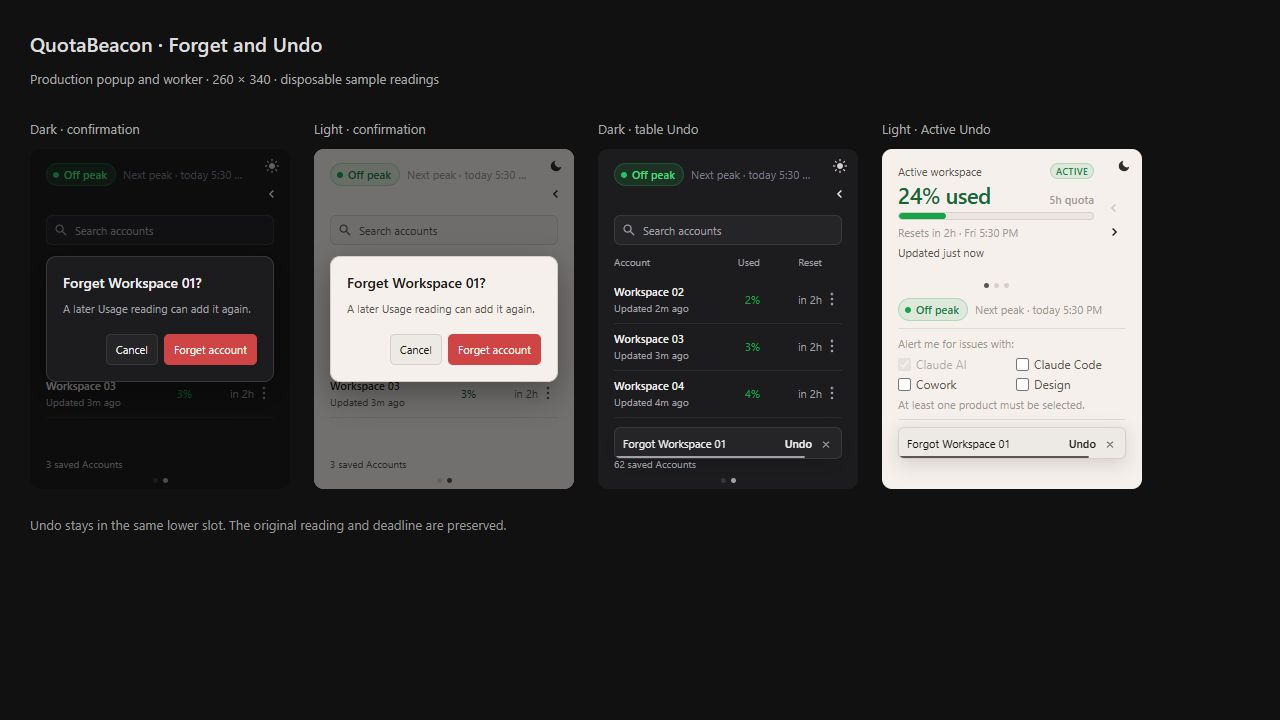
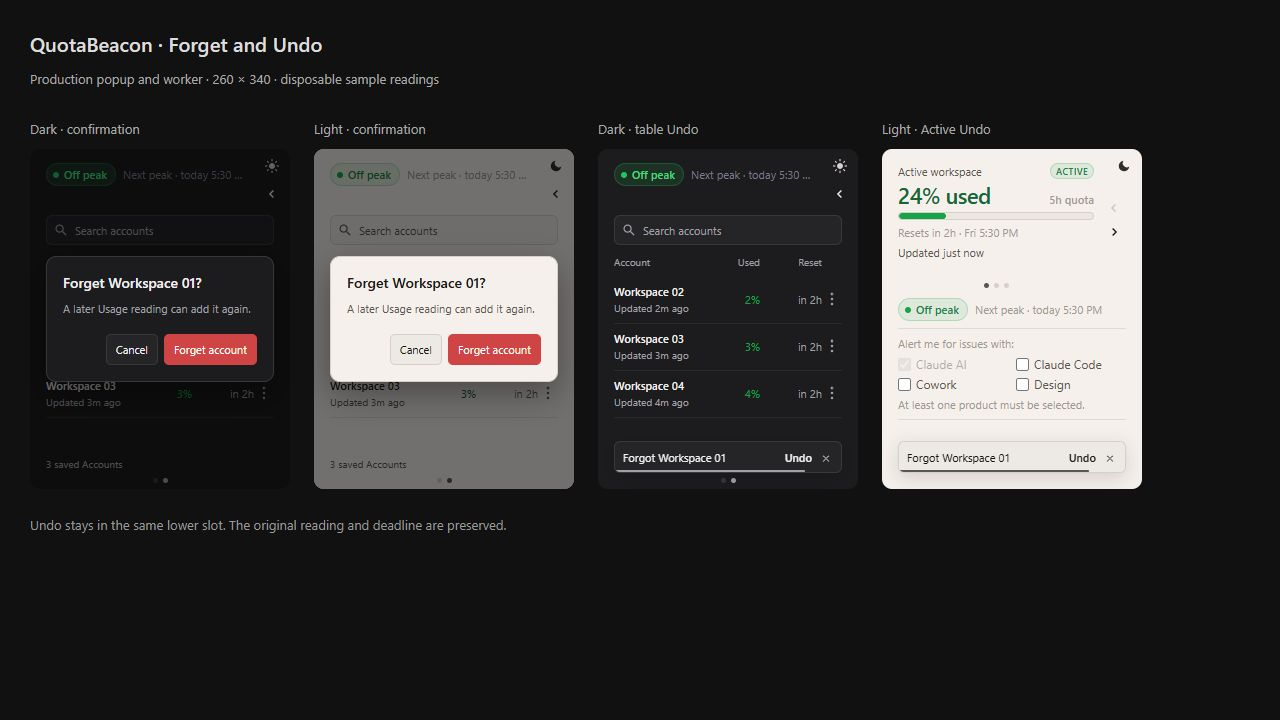
Lower Undo bar with a comfortable bottom inset

Changed region(s): [[0.4688, 0.6111, 0.6562, 0.6722], [0.6875, 0.6111, 0.875, 0.6722]]

diff --git a/.scratch/account-overview/04-validation/checks.js b/.scratch/account-overview/04-validation/checks.js
@@ -109,7 +109,7 @@ document.getElementById('run').onclick = async () => {
         if (count === 64) check(!doc.querySelector('.account-refresh-notice').textContent.includes('New reading received'), 'Forget does not announce a fictional new reading');
         check(JSON.stringify(win.ticket01.state.local.accounts['account-0']) === originalActive && win.ticket01.toolbar.length === icons,
           'Forget preserves Active raw reading and toolbar');
-        check(toastBox(win) === '16,278,228,32', 'Undo occupies the fixed 228 × 32 lower slot');
+        check(toastBox(win) === '16,292,228,32', 'Undo occupies the fixed 228 × 32 lower slot');
         const deadline = win.ticket01.state.local.accountUndo.expiresAt;
         check(deadline === win.Date.now() + 2500, 'offer deadline is exactly 2500ms');
         const dots = doc.getElementById('account-dots');
@@ -118,14 +118,17 @@ document.getElementById('run').onclick = async () => {
         check(doc.querySelector('.footer').inert && doc.querySelector('.tz-picker').inert, 'controls covered by Undo cannot receive focus');
         check(win.getComputedStyle(doc.querySelector('.footer')).visibility === 'hidden'
           && win.getComputedStyle(doc.querySelector('.tz-picker')).visibility === 'hidden', 'Undo replaces the entire timezone/reset footer without controls peeking through');
+        if (count === 64) check(win.getComputedStyle(doc.querySelector('.account-table-foot')).visibility === 'hidden'
+          && win.getComputedStyle(doc.querySelector('.account-refresh-notice')).visibility === 'hidden', 'lower Undo bar fully replaces the table count and notice');
         click(win, '#theme-toggle');
         await pause();
-        check(win.ticket01.state.local.accountUndo.expiresAt === deadline && toastBox(win) === '16,278,228,32', 'theme preserves deadline and notification position');
+        check(win.ticket01.state.local.accountUndo.expiresAt === deadline && toastBox(win) === '16,292,228,32', 'theme preserves deadline and notification position');
         await undo(win);
         check(JSON.stringify(win.ticket01.state.local.accounts[id]) === original, 'Undo restores exact raw identity, label, percentage, reset, timestamp and tie order');
         check(doc.querySelector('.account-undo').hidden && !doc.querySelector('.footer').inert, 'Undo removes recovery and releases covered controls');
         check(win.getComputedStyle(doc.querySelector('.footer')).visibility === 'visible'
           && win.getComputedStyle(doc.querySelector('.tz-picker')).visibility === 'visible', 'Undo restores both footer sections after recovery');
+        if (count === 64) check(win.getComputedStyle(doc.querySelector('.account-table-foot')).visibility === 'visible', 'table footer returns after Undo');
         if (count === 64) check(!doc.querySelector('.account-refresh-notice').textContent.includes('New reading received'), 'Undo does not announce the restored observation as a new reading');
         fixed(win, `${theme} ${count} restored`);
         check(win.ticket01.toolbar.length === icons, 'Undo does not change toolbar');

diff --git a/popup/account-pages.css b/popup/account-pages.css
@@ -216,10 +216,12 @@
 .account-dialog-buttons button { padding: 7px 9px; border: 1px solid var(--border); border-radius: 5px; background: var(--surface-1); color: var(--text-primary); font: inherit; font-size: 11px; cursor: pointer; }
 .account-dialog-buttons #confirm-forget { border-color: #cf4545; color: #fff; background: #cf4545; }
 .account-dialog-buttons #confirm-forget:hover { border-color: #c73e3e; background: #c73e3e; }
-.account-undo { position: fixed; z-index: 15; left: 16px; right: 16px; bottom: 30px; box-sizing: border-box; height: 32px; display: flex; align-items: center; gap: 7px; padding: 0 8px; overflow: hidden; border: 1px solid var(--border); border-radius: 6px; background: var(--surface-1); color: var(--text-primary); font-size: 11px; box-shadow: 0 5px 18px #0002; }
+.account-undo { position: fixed; z-index: 15; left: 16px; right: 16px; bottom: 16px; box-sizing: border-box; height: 32px; display: flex; align-items: center; gap: 7px; padding: 0 8px; overflow: hidden; border: 1px solid var(--border); border-radius: 6px; background: var(--surface-1); color: var(--text-primary); font-size: 11px; box-shadow: 0 5px 18px #0002; }
 .account-undo[hidden] { display: none; }
 .account-has-undo .lower-controls .footer,
-.account-has-undo .lower-controls .tz-picker { visibility: hidden; }
+.account-has-undo .lower-controls .tz-picker,
+.account-has-undo .account-table-foot,
+.account-has-undo .account-refresh-notice { visibility: hidden; }
 .account-undo-text { flex: 1; min-width: 0; overflow: hidden; text-overflow: ellipsis; white-space: nowrap; }
 .account-undo button { flex: none; padding: 3px 0; border: 0; background: none; color: var(--text-primary); font: inherit; font-size: 11px; cursor: pointer; }
 .account-undo .account-undo-button { font-weight: 600; }

diff --git a/.scratch/account-overview/continuation.md b/.scratch/account-overview/continuation.md
@@ -27,7 +27,7 @@ Latest user refinements on 2026-10-24 are implemented: both Forget controls have
 
 The user requested implementation on 2026-10-24. The entire [finalized ticket 04](issues/04-forget-undo-and-account-rediscovery.md) is now implemented in production, tested and independently reviewed. See [production verification](04-validation/verification.md), [Standards/Spec review](04-validation/review.md), and the [production preview](04-validation/preview.html). Status is ready-for-human for review after reloading the unpacked extension.
 
-Final choices: **Dialog** confirmation; **vertical ⋮ menus at the far right after Reset**; **no visible table scrollbar**, with scrolling preserved; Undo notification **fixed to the same lower slot on all pages** (16px side insets, 30px from bottom, 228 × 32px); **2,500ms deadline** and **2px linear shrinking bottom line**, with reduced-motion time-left text. Navigation, theme, inspection and reopening preserve the original deadline. Expiry/dismiss ends Undo; a second removal starts its own complete window. The 1–5 second slider and other demo controls remain prototype-only and must not ship.
+Final choices: **Dialog** confirmation; **vertical ⋮ menus at the far right after Reset**; **no visible table scrollbar**, with scrolling preserved; Undo notification **fixed to the same lower slot on all pages** (16px side insets, 16px from bottom, 228 × 32px); **2,500ms deadline** and **2px linear shrinking bottom line**, with reduced-motion time-left text. Navigation, theme, inspection and reopening preserve the original deadline. Expiry/dismiss ends Undo; a second removal starts its own complete window. The 1–5 second slider and other demo controls remain prototype-only and must not ship.
 
 Production uses one service-worker mutation queue across every tab and the popup for reading/label/Forget/Undo/clear and recovery lifecycle operations. Recovery retains the exact raw observation; newer rediscovered readings win. First display after successful removal activates the original 2,500ms deadline, so storage latency cannot shorten the visible interval. Reopening preserves that deadline, and Undo inserts the restored Account into an already-open table even without the original popup's browsing context. Reset and dismiss end recovery. All Compact/reset/layout rules above, including **Last recorded usage**, are retained. The [selected Dialog prototype](04-prototype/prototype.html?v=3) remains design history; [04 production checks](04-validation/verification.md) now supply implementation evidence.
 

diff --git a/.scratch/account-overview/issues/04-forget-undo-and-account-rediscovery.md b/.scratch/account-overview/issues/04-forget-undo-and-account-rediscovery.md
@@ -36,7 +36,7 @@
 
 - **Final production duration: exactly 2,500ms (2.5 seconds).** Start when removal succeeds and the Undo notification becomes available. The earlier indefinite / five-second defaults are superseded. Ship no duration slider or user setting.
 - Notification copy: **“Forgot [Account name]”**, **Undo**, and a dismiss × control. Long names truncate and expose the full label. Keep the same compact visual treatment as the approved prototype.
-- **Always use the same lower slot on every page**, including Active, table, inspection and one/two/three-Account slides. Match the prototype: left/right 16px, bottom 30px, 228 × 32px at the standard popup bounds. Do not anchor it to the top/usage area, narrow it on page one, cover quota details, or move it when navigating. Do not add usage padding or shift preferences to make room. On detail pages this short-lived overlay may cover the preference footer; covered controls must not receive focus until it is gone.
+- **Always use the same lower slot on every page**, including Active, table, inspection and one/two/three-Account slides. Latest user-approved placement: left/right 16px, bottom 16px, 228 × 32px at the standard popup bounds. Do not anchor it to the top/usage area, narrow it on page one, cover quota details, or move it when navigating. Do not add usage padding or shift preferences to make room. On detail pages this short-lived overlay may cover the preference footer; covered controls must not receive focus until it is gone.
 - Show a **2px shrinking line along the notification's bottom edge**, linear from full remaining time to zero. Use transform-based motion and the existing colors. This indicates expiring Undo, not a loading request. Respect reduced motion with numeric time-left text instead of the moving line.
 - Navigation, theme changes, inspection/Back, renders, incoming readings and reopening must **preserve the original deadline and remaining progress**; they cannot restart or extend the 2.5-second window. Reopening after expiry must not bring Undo back. The prototype slider can restart a countdown for experimentation only; that behavior/control does not ship.
 - At expiry, remove the notification and Undo capability automatically; reject late Undo even if a callback was delayed. Dispose of expired recovery state. Expiry does not restore the Account, redraw/reorder underlying rows, move controls, or steal unrelated focus. If focus was inside the disappearing notification, return it to an appropriate visible control.

diff --git a/.scratch/account-overview/04-validation/footer-replacement.md b/.scratch/account-overview/04-validation/footer-replacement.md
@@ -4,6 +4,8 @@ User-approved follow-up to `201b723`, implemented directly in production without
 
 While Undo is available, both the timezone/reset row and the timezone picker are completely hidden. Their reserved layout space remains, so status, products and usage do not move. Existing inert behavior keeps these controls out of keyboard focus. The shared Undo cleanup restores both sections after Undo, expiry, dismissal, clear or activation failure. Navigation/theme changes retain the original 2.5-second deadline and bar position.
 
-Verification: [258 popup matrix assertions](matrix-results.txt), [31 accessibility/expiry assertions](extra-results.txt), [36 lifecycle/race assertions](advanced-results.txt), and [57 Node tests](footer-node-results.txt) pass. New assertions verify complete visual replacement in both themes, restoration after Undo/dismiss/reset/expiry and identical control coordinates before/after expiry. JavaScript syntax and diff whitespace checks pass. Standards and Spec reviewers report no actionable findings.
+Latest placement refinement: lowered the bar by 14px, from a 30px bottom gap to 16px. It sits slightly below the center of the space under the footer divider, with a comfortable bottom inset. Bar dimensions, side insets and surrounding layout are unchanged. On table pages it also temporarily replaces the saved-Account count and refresh notice, so neither peeks through at the new position. These return when Undo ends. The existing exact-position matrix checks now require `x=16, y=292, width=228, height=32` at standard popup bounds.
+
+Verification: [262 popup matrix assertions](matrix-results.txt), [31 accessibility/expiry assertions](extra-results.txt), [36 lifecycle/race assertions](advanced-results.txt), and [57 Node tests](footer-node-results.txt) pass. New assertions verify complete visual replacement in both themes, restoration after Undo/dismiss/reset/expiry and identical control coordinates before/after expiry. JavaScript syntax and diff whitespace checks pass. Standards and Spec reviewers report no actionable findings.
 
 The checks and [screenshot](footer-replacement.jpg) use the actual production popup with the existing disposable storage/runtime/clock adapter. No installed Account readings were modified. The existing production preview supplies the screenshot; no new prototype or design picker was added.
